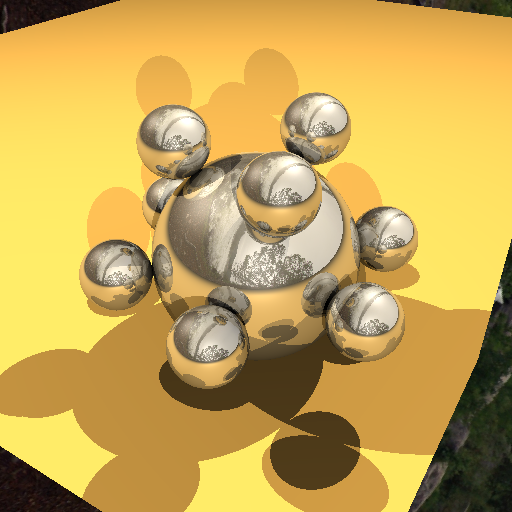
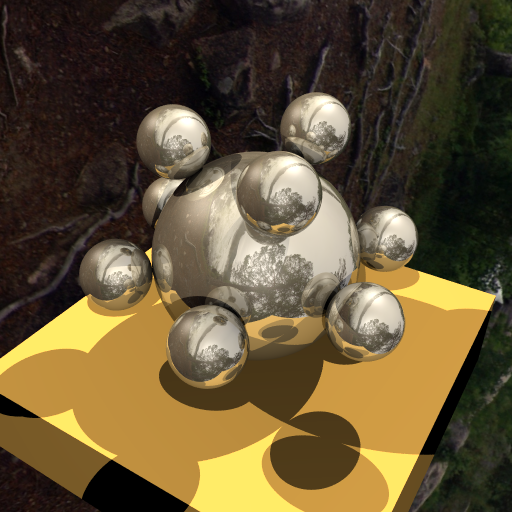
Make some changes in both lab1 and lab2

diff --git a/project1/lab01/main.cpp b/project1/lab01/main.cpp
@@ -507,21 +507,24 @@ Color getDiffuseNSpecular(Ray shadow_ray, Material* material, Vector hit_ray_dir
 	if (in_shadow)
 		return colour;
 
-	float light_normal_dot_prod = light_dir * normal_vec;
-	
 	Color diffuse_colour;
+	float light_normal_dot_prod = light_dir * normal_vec;
 	if (light_normal_dot_prod > 0) {
 		diffuse_colour = material->GetDiffColor() * material->GetDiffuse() * light_normal_dot_prod;
 	}
 
-	// Halfway vector approximation
-	Vector halfway_vec = (light_dir + hit_ray_dir).normalize();
-
-	float halfway_product = halfway_vec * normal_vec;
+	float specular = material->GetSpecular();
 
 	Color specular_colour;
-	if (halfway_product > 0) {
-		specular_colour = material->GetSpecColor() * material->GetSpecular() * pow(halfway_product, material->GetShine());
+	if (specular > 0) {
+		// Halfway vector approximation
+		Vector halfway_vec = (light_dir + hit_ray_dir).normalize();
+
+		float halfway_product = halfway_vec * normal_vec;
+
+		if (halfway_product > 0) {
+			specular_colour = material->GetSpecColor() * specular * pow(halfway_product, material->GetShine());
+		}
 	}
 
 	colour += light_colour * (diffuse_colour + specular_colour);
@@ -548,8 +551,8 @@ Color getReflection(Vector normal_vec, float cos_theta_i, Vector rev_ray_dir, Ve
 
 		for (int p = 0; p < sqrt_num_samples; p++) {
 			for (int q = 0; q < sqrt_num_samples; q++) {
-				//mod_refl_ray_dir = (refl_ray_dir + rand_in_unit_sphere() * roughness).normalize(); // our implementation of random
-				mod_refl_ray_dir = (refl_ray_dir + rnd_unit_sphere() * roughness).normalize();
+				mod_refl_ray_dir = (refl_ray_dir + rand_in_unit_sphere() * roughness).normalize(); // our implementation of random
+				//mod_refl_ray_dir = (refl_ray_dir + rnd_unit_sphere() * roughness).normalize();
 				
 				if (mod_refl_ray_dir * normal_vec < 0) {
 					continue;
@@ -810,8 +813,8 @@ void renderScene()
 				// Average each ray's colour
 				for (int p = 0; p < sqrt_spp_dof; p++) {
 					for (int q = 0; q < sqrt_spp_dof; q++) {
-						//lens_sample = rand_in_unit_circle() * aperture; //our implementation of random
-						lens_sample = rnd_unit_disk() * aperture;
+						lens_sample = rand_in_unit_circle() * aperture; //our implementation of random
+						//lens_sample = rnd_unit_disk() * aperture;
 						
 						if (sqrt_spp != 0) { // Anti-aliasing => Each pixel sample is different
 							pixel_sample.x = x + get_rand(p, p + 1) / sqrt_spp_dof;
